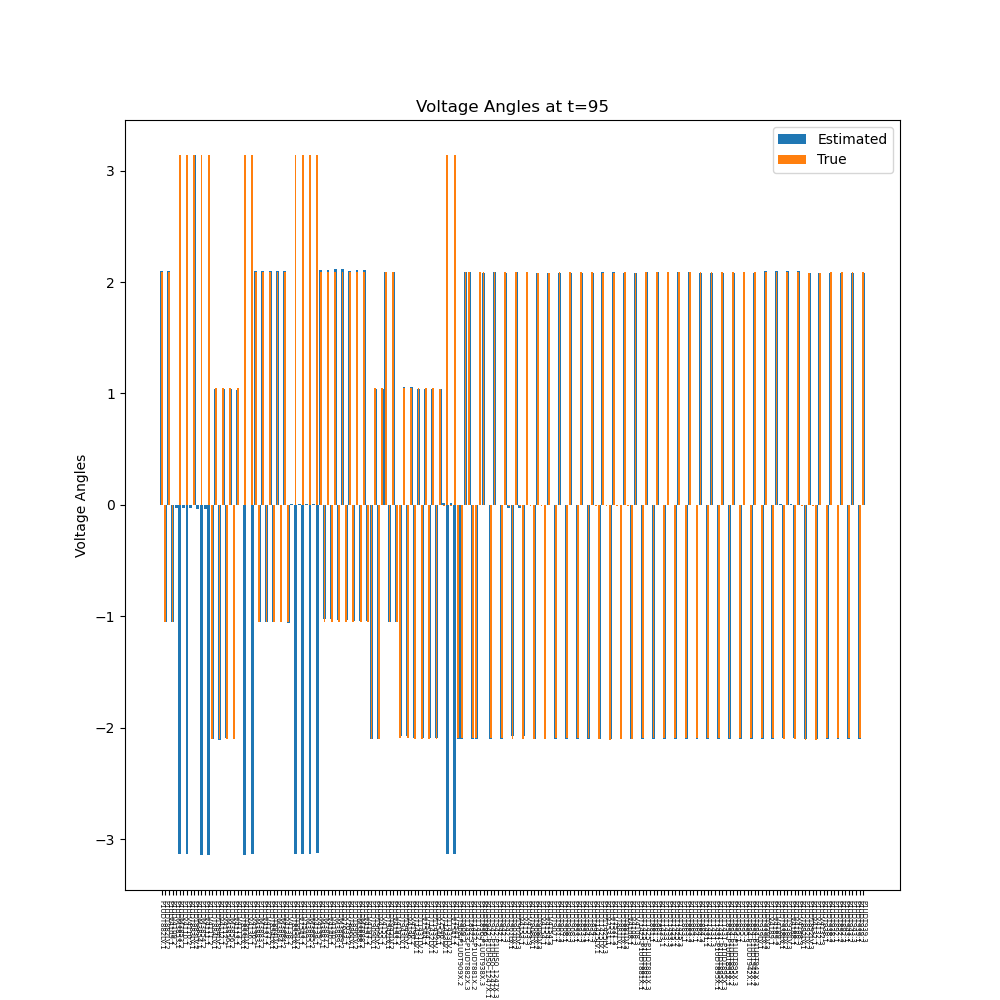
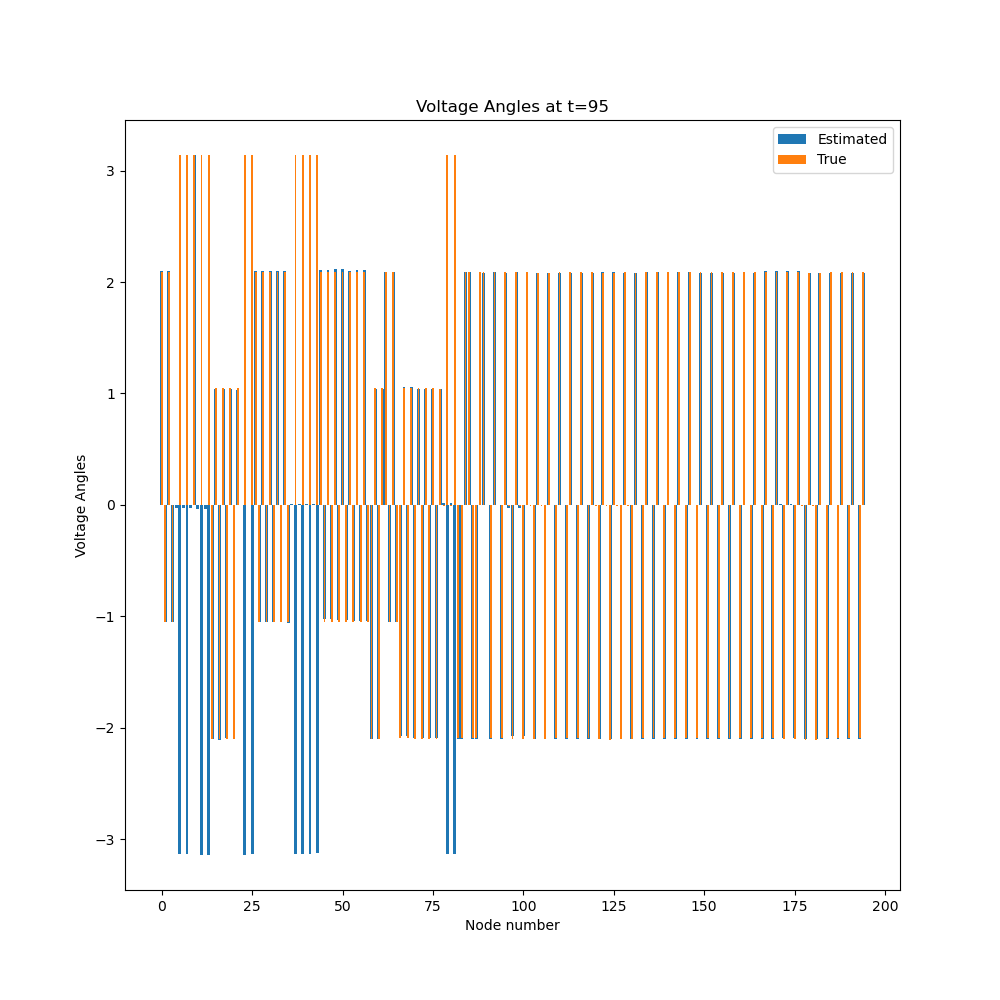
Improve plots and export topology.json from basic feeder

Changed region(s): [[0.155, 0.899, 0.899, 1.0]]

diff --git a/post_analysis.py b/post_analysis.py
@@ -3,9 +3,14 @@ import pyarrow.feather as feather
 import numpy as np
 import matplotlib.pyplot as plt
 import pandas as pd
+import json
 
 voltage_real = feather.read_feather("recorder_voltage_real/data.feather")
 voltage_imag = feather.read_feather("recorder_voltage_imag/data.feather")
+
+with open("feeder/topology.json") as f:
+    topology = json.load(f)
+    base_voltages = np.array(topology["base_voltages"])
 
 true_voltages = voltage_real.drop('time', axis=1) + 1j * voltage_imag.drop('time', axis=1)
 time = voltage_real["time"]
@@ -15,7 +20,7 @@ voltage_angle = feather.read_feather("recorder_voltage_angle/data.feather").drop
 
 estimated_voltages = voltage_mag * np.exp(1j * voltage_angle)
 
-def plots(true_voltages, estimated_voltages, time=0):
+def plots(true_voltages, estimated_voltages, time=0, unit="kV"):
     n_nodes = true_voltages.shape[0]
     x_axis = np.arange(n_nodes)
     fig1, ax = plt.subplots(figsize=(10,10))
@@ -23,17 +28,19 @@ def plots(true_voltages, estimated_voltages, time=0):
     ax.bar(x_axis, np.angle(estimated_voltages))
     ax.bar(x_axis, np.angle(true_voltages), width=0.5)
 
-    ax.set_xticks(x_axis, true_voltages.index, rotation=-90, fontsize=5)
+    #ax.set_xticks(x_axis, true_voltages.index, rotation=-90, fontsize=5)
     #ax.set_tick_params(axis='x', labelsize=5, rotation=-90)
+    ax.set_xlabel('Node number')
     ax.set_ylabel('Voltage Angles')
     ax.legend(['Estimated', 'True'])
     ax.set_title(f"Voltage Angles at t={time}")
 
     fig2, ax = plt.subplots(figsize=(10,10))
-    ax.bar(x_axis, np.abs(estimated_voltages))
-    ax.bar(x_axis, np.abs(true_voltages), width=0.5)
-    ax.set_xticks(x_axis, true_voltages.index, rotation=-90, fontsize=5)
-    ax.set_ylabel('Voltage Magnitudes')
+    ax.plot(x_axis, np.abs(estimated_voltages), '-o')
+    ax.plot(x_axis, np.abs(true_voltages), '-o')
+    #ax.set_xticks(x_axis, true_voltages.index, rotation=-90, fontsize=5)
+    ax.set_xlabel('Node number')
+    ax.set_ylabel(f'Voltage Magnitudes ({unit})')
     ax.legend(['Estimated', 'True'])
     ax.set_title(f"Voltage Magnitudes at t={time}")
     return fig1, fig2
@@ -74,10 +81,10 @@ err_table = error_table(true_voltages, estimated_voltages)
 plot_errors(err_table).savefig("errors.png")
 MAPE, MAE = errors(true_voltages, estimated_voltages)
 print(f"MAPE = {MAPE}, MAE={MAE}")
-fig1, fig2 = plots(true_voltages.iloc[0,:], estimated_voltages.iloc[0,:])
+fig1, fig2 = plots(true_voltages.iloc[0,:] / base_voltages, estimated_voltages.iloc[0,:] / base_voltages, unit="p.u.")
 fig1.savefig("voltage_angles_0.png")
-fig2.savefig("voltage_mangitudes_0.png")
-fig1, fig2 = plots(true_voltages.iloc[95,:], estimated_voltages.iloc[95,:], 95)
+fig2.savefig("voltage_magnitudes_0.png")
+fig1, fig2 = plots(true_voltages.iloc[95,:] / base_voltages, estimated_voltages.iloc[95,:] / base_voltages, time=95, unit="p.u.")
 fig1.savefig("voltage_angles_95.png")
-fig2.savefig("voltage_mangitudes_95.png")
+fig2.savefig("voltage_magnitudes_95.png")
 

diff --git a/BasicFeeder/sender_cosim.py b/BasicFeeder/sender_cosim.py
@@ -133,6 +133,9 @@ def go_cosim(sim, config: FeederConfig):
         unique_ids=unique_ids
     )
 
+    logger.info("Sending topology and saving to topology.json")
+    with open("topology.json", "w") as topology_file:
+        topology_file.write(topology.json())
     pub_topology.publish(topology.json())
 
     snapshot_run(sim)
